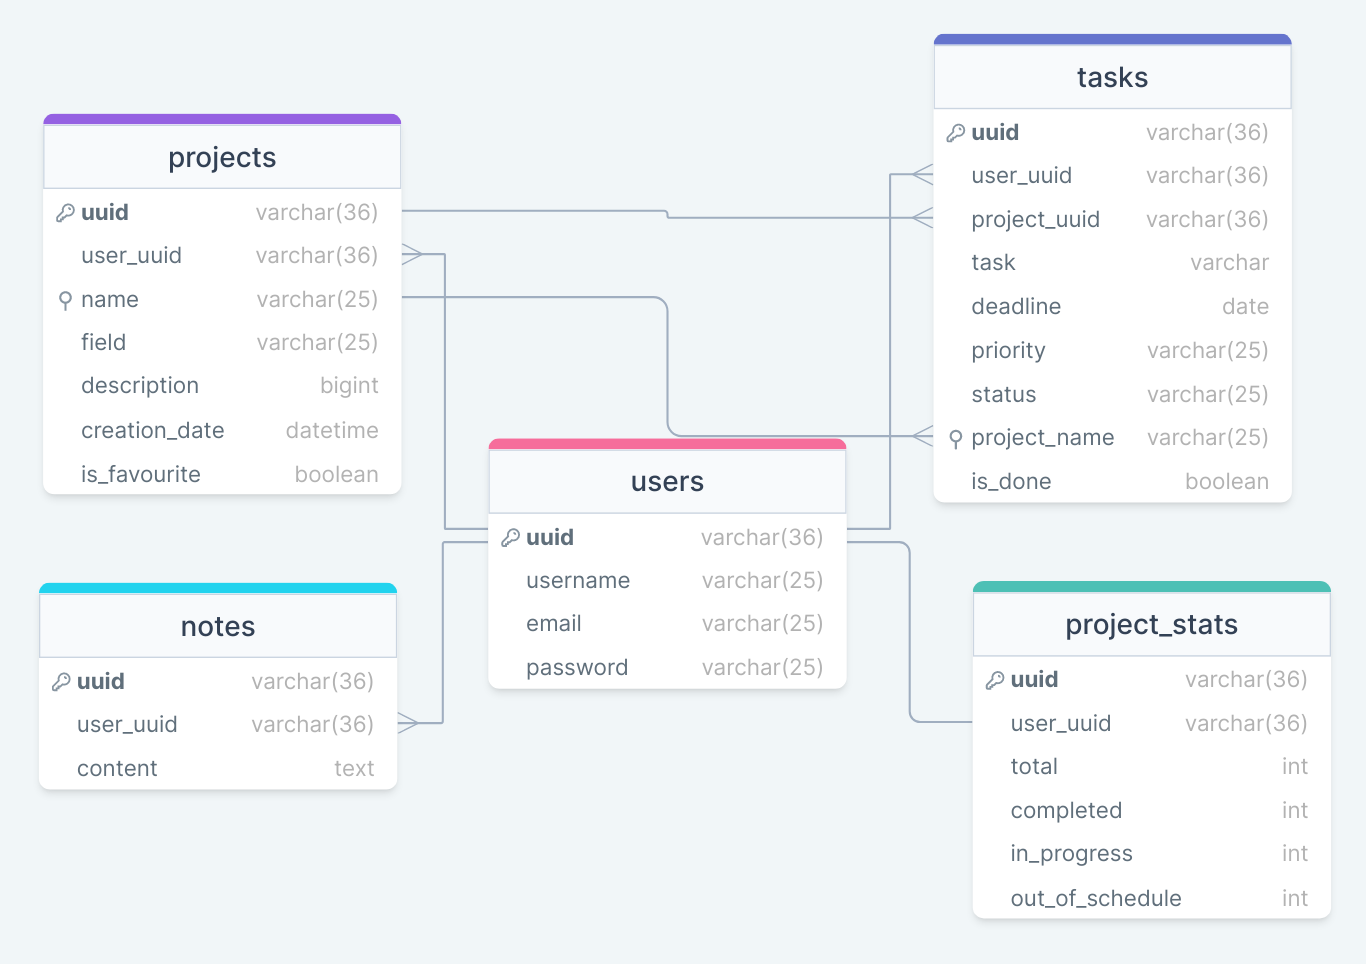
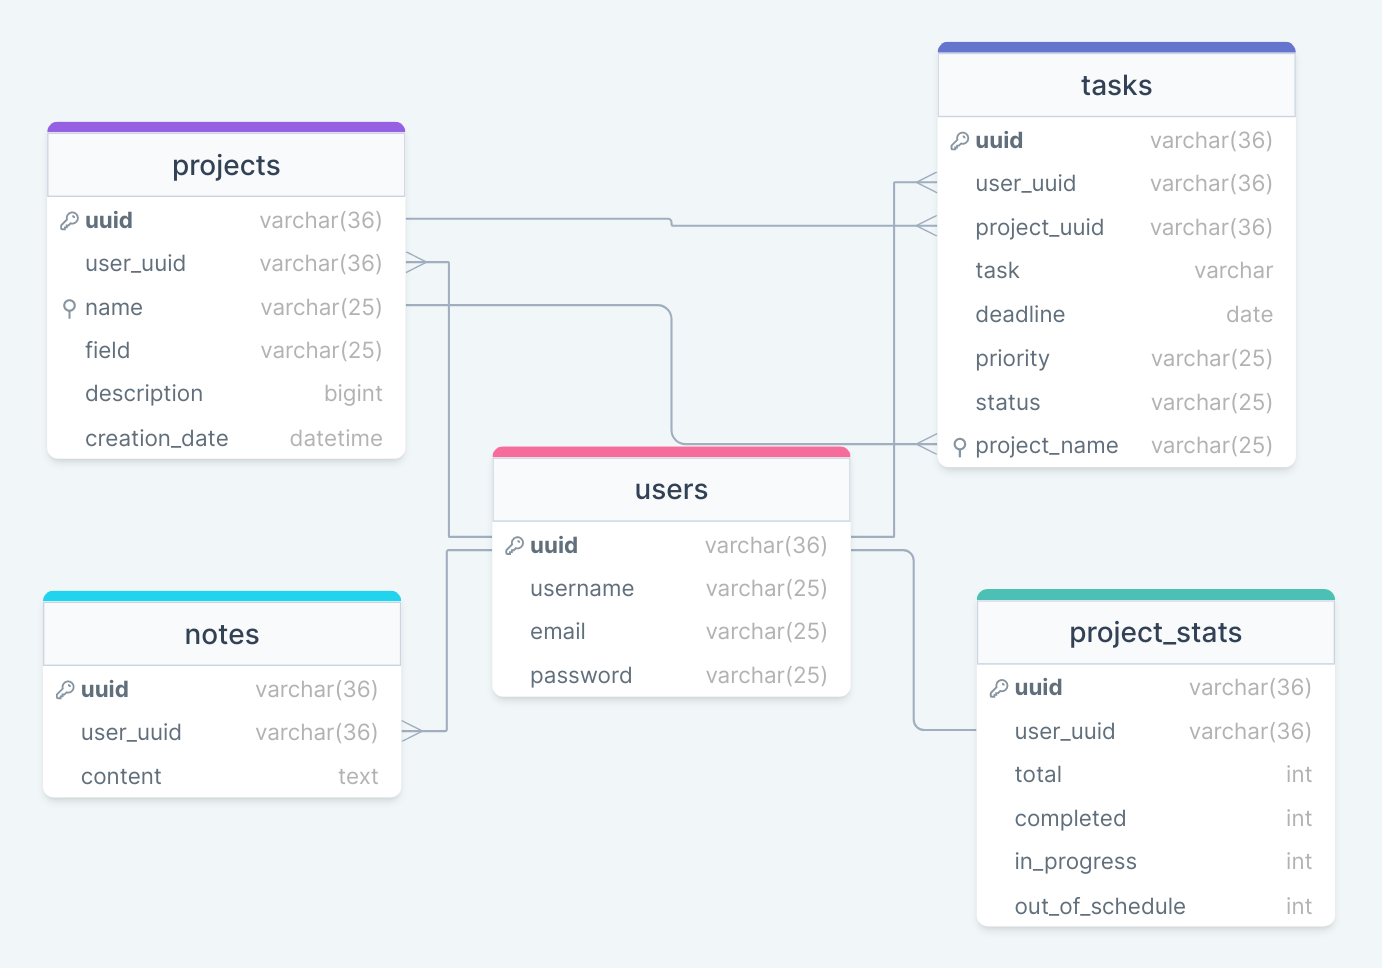
Updated database scheme and tables

diff --git a/client/src/components/modals/AddProject/AddProject.jsx b/client/src/components/modals/AddProject/AddProject.jsx
@@ -26,8 +26,7 @@ function AddProject({ projects, setProjects, setShowDialog, setAreAllSelected}) 
       const requestData = {
         uuid: uuidv4(),
         ...inputs,
-        creation_date: moment(Date.now()).format("YYYY-MM-DD HH:mm:ss"),
-        is_favourite: 0
+        creation_date: moment(Date.now()).format("YYYY-MM-DD HH:mm:ss")
       }
       await axios.post("/projects", requestData)
       setProjects([...projects, requestData])

diff --git a/server/controllers/projects.js b/server/controllers/projects.js
@@ -27,8 +27,7 @@ export const addProject = (req, res)=>{
             req.body.name,
             req.body.field,
             req.body.description,
-            req.body.creation_date,
-            req.body.is_favourite
+            req.body.creation_date
         ]
         db.query(q, [values], (err, data)=>{
             if(err) return res.status(500).json(err)

diff --git a/server/controllers/tasks.js b/server/controllers/tasks.js
@@ -28,8 +28,7 @@ export const addTask = (req, res)=>{
             req.body.deadline,
             req.body.priority,
             req.body.status,
-            req.body.project_name,
-            req.body.is_done
+            req.body.project_name
         ]
         db.query(q, [values], (err, data)=>{
             if(err) return res.status(500).json(err)

diff --git a/client/src/components/modals/AddTask/AddTask.jsx b/client/src/components/modals/AddTask/AddTask.jsx
@@ -32,8 +32,7 @@ function AddTask({
         project_uuid: project_uuid,
         ...inputs,
         status: "Waiting",
-        project_name: project_name,
-        is_done: 0,
+        project_name: project_name
       };
       await axios.post("/tasks", requestData);
       setTasks([...tasks, requestData]);
